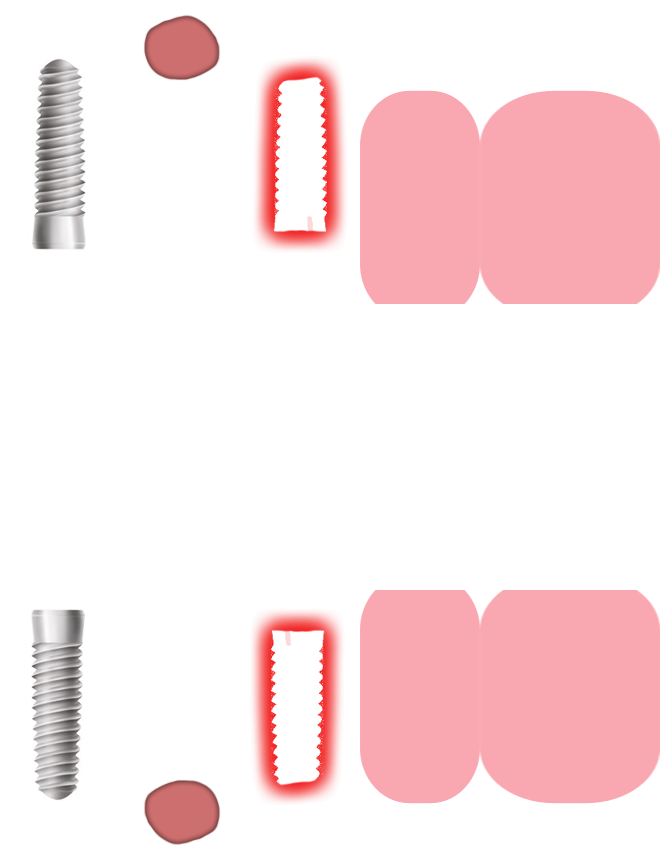
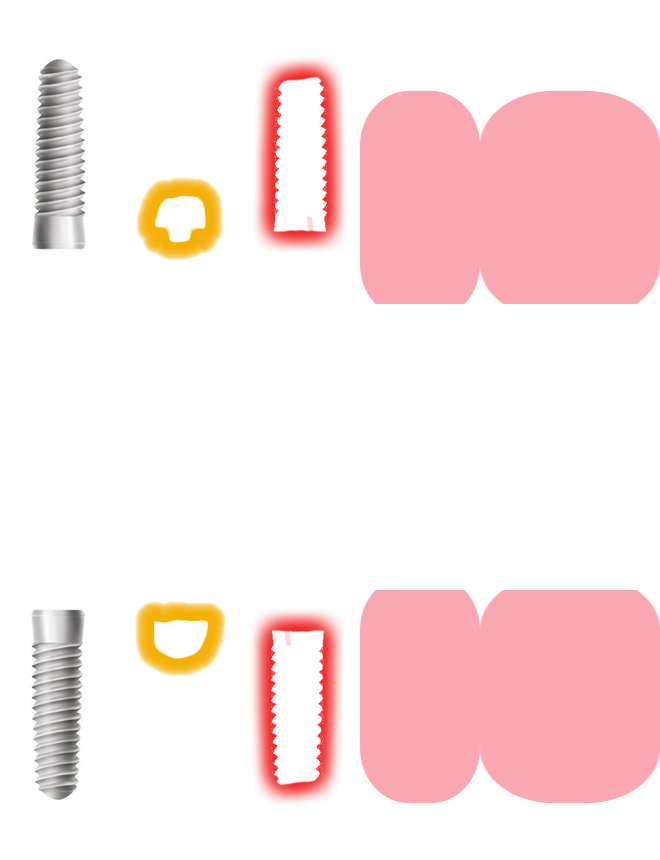
Sprite sheets updated. Resorption now visible.

diff --git a/src/View/Graphics/ToothPainter.cpp b/src/View/Graphics/ToothPainter.cpp
@@ -253,15 +253,7 @@ inline QPixmap getTooth(const ToothPaintHint& tooth) {
 
     if (tooth.lesion)
     {
-        if (tooth.tooth != ToothTextureHint::impl && tooth.tooth != ToothTextureHint::impl_m)
-        {
             painter.drawPixmap(0, 0, *texturePack.lesion);
-
-        }
-        else
-        {
-            painter.drawPixmap(coords.implantPos, *texturePack.lesionImplant);
-        }
     }
 
     //drawing the perio:
@@ -281,7 +273,14 @@ inline QPixmap getTooth(const ToothPaintHint& tooth) {
 
     if (tooth.calculus)
     {
-        painter.drawPixmap(coords.crownRect, *texturePack.calculus);
+        if (tooth.tooth != ToothTextureHint::impl && tooth.tooth != ToothTextureHint::impl_m)
+        {
+            painter.drawPixmap(coords.crownRect, *texturePack.calculus);
+        }
+        else
+        {
+            painter.drawPixmap(coords.implantPos, *texturePack.calculusImplant);
+        }
     }
 
     //drawing the tooth:
@@ -325,21 +324,34 @@ inline QPixmap getTooth(const ToothPaintHint& tooth) {
     }
 
 
+    QPixmap endo(coords.toothRect.width(), coords.toothRect.height()); 
+    endo.fill(Qt::transparent);
+
+    if (tooth.resorption) {
+        endo = *texturePack.resorption;
+    }
+
+    if (tooth.endo != EndoHint::none) {
+        QPainter canalPainter(&endo);
+        canalPainter.drawPixmap(endo.rect(), *texturePack.endo);
+    }
+    
     switch (tooth.endo) //drawing the endo
     {
     case EndoHint::none:
+        painter.drawPixmap(0, 0, textureFormat(endo, Qt::red, 0.3));
         break;
     case EndoHint::red:
-        painter.drawPixmap(0, 0, textureFormat(*texturePack.endo, Qt::red, 0.3));
+        painter.drawPixmap(0, 0, textureFormat(endo, Qt::red, 0.3));
         break;
     case EndoHint::blue:
-        painter.drawPixmap(0, 0, textureFormat(*texturePack.endo, Qt::blue, 0.3));
+        painter.drawPixmap(0, 0, textureFormat(endo, Qt::blue, 0.3));
         break;
     case EndoHint::green:
-        painter.drawPixmap(0, 0, textureFormat(*texturePack.endo, Qt::green, 0.3));
+        painter.drawPixmap(0, 0, textureFormat(endo, Qt::green, 0.3));
         break;
     case EndoHint::darkred:
-        painter.drawPixmap(0, 0, textureFormat(*texturePack.endo, Qt::darkRed, 0.3));
+        painter.drawPixmap(0, 0, textureFormat(endo, Qt::darkRed, 0.3));
         break;
     }
 

diff --git a/src/View/Graphics/SpriteSheets.cpp b/src/View/Graphics/SpriteSheets.cpp
@@ -48,12 +48,10 @@ struct SpriteMaster
 	QPixmap buccal{ ":/tooth/tooth_buccal.png" };
 	QPixmap lingual{ ":/tooth/tooth_lingual.png" };
 	QPixmap cervical{ ":/tooth/tooth_cervical.png" };
-
+	QPixmap resorption{ ":/tooth/tooth_resorption.png" };
 	QPixmap bridgeCon{ ":/tooth/tooth_bridgeCon.png" };
 	QPixmap bridgeSep{ ":/tooth/tooth_bridgeSep.png" };
-
 	QPixmap falseTooth{ ":/tooth/tooth_false.png" };
-
 };
 
 
@@ -77,7 +75,7 @@ void initializePack(TexturePack& tx, const SpriteMaster master, int xPos, int wi
 	tx.bridgeConnected = new QPixmap(master.bridgeCon.copy(crownRect));
 	tx.bridgeSeparated = new QPixmap(master.bridgeSep.copy(crownRect));
 	tx.falseTooth = new QPixmap(master.falseTooth.copy(crownRect));
-
+	tx.resorption = new QPixmap(master.resorption.copy(commonRect));
 	tx.surfaces[Dental::Surface::Occlusal] = new QPixmap(master.occlusal.copy(crownRect));
 	tx.surfaces[Dental::Surface::Medial] = new QPixmap(master.approximal.copy(xPos + width / 2, 0, width / 2, 440));
 	tx.surfaces[Dental::Surface::Distal] = new QPixmap(master.approximal.copy(xPos, 0, width/2, 440));
@@ -97,7 +95,7 @@ void SpriteSheets::initialize()
 
 	QPixmap commonTexture(":/tooth/tooth_common.png");
 	implant = new QPixmap(commonTexture.copy(QRect(0, 0, 120, 860)));
-	lesionImplant = new QPixmap(commonTexture.copy(QRect(120, 0, 120, 860)));
+	calculusImplant = new QPixmap(commonTexture.copy(QRect(120, 0, 120, 860)));
 	perioImplant = new QPixmap(commonTexture.copy(QRect(240, 0, 120, 860)));
 	dentureFront = new QPixmap(commonTexture.copy(QRect(360, 0, 120, 860)));
 	dentureMolar = new QPixmap(commonTexture.copy(QRect(480, 0, 180, 860)));
@@ -112,7 +110,7 @@ void SpriteSheets::initialize()
 
 		initializePack(textures[i], masterSprites, xPos, width);
 		textures[i].implant = implant;
-		textures[i].lesionImplant = lesionImplant;
+		textures[i].calculusImplant = calculusImplant;
 		textures[i].perioImplant = perioImplant;
 		textures[i].denture = isMolar ? dentureMolar : dentureFront;
 
@@ -148,6 +146,6 @@ const SpritesheetCoords& SpriteSheets::getCoordinates(int toothIndex, bool tempo
 SpriteSheets::~SpriteSheets()
 {
 	delete implant;
-	delete lesionImplant;
+	delete calculusImplant;
 	delete perioImplant;
 }

diff --git a/src/Model/Dental/Tooth.cpp b/src/Model/Dental/Tooth.cpp
@@ -265,7 +265,7 @@ Tooth::IncompatibleCodes Tooth::incompatInit()
 	result[RootCanal] = { Healthy, Pulpitis, Necrosis, Missing, Impacted, Implant, Denture };
 	result[Post] = { Healthy, Temporary, Missing, Implant, Pulpitis, Necrosis, Impacted, Denture };
 	result[Root] = { Healthy, Caries, NonCariesLesion,  Restoration, DefectiveRestoration, Crown, Missing, Implant, Calculus };
-	result[Implant] = { Healthy, Temporary, Missing, Restoration, DefectiveRestoration, Caries, NonCariesLesion,  Pulpitis, Necrosis, RootCanal, Fracture, Root, Post, Mobility, Impacted };
+	result[Implant] = { Healthy, ApicalLesion, Temporary, Missing, Restoration, DefectiveRestoration, Caries, NonCariesLesion,  Pulpitis, Necrosis, RootCanal, Fracture, Root, Post, Mobility, Impacted };
 	result[Fracture] = { Healthy, Missing, Implant, Impacted };
 	result[Periodontitis] = { Healthy, Missing, Impacted, Denture };
 	result[Mobility] = { Healthy, Missing, Impacted };
@@ -363,6 +363,11 @@ void Tooth::setStatus(Status code, bool present) {
 		setStatus(RootCanal, true); break;
 	case ApicalLesion:
 		if (!m_data[RootCanal]) {
+			setStatus(Necrosis, true);
+		}
+		break;
+	case Resorption:
+		if (!m_data[RootCanal] && !m_data[Pulpitis]) {
 			setStatus(Necrosis, true);
 		}
 		break;

diff --git a/src/Model/Dental/Dental.h b/src/Model/Dental/Dental.h
@@ -46,9 +46,9 @@ namespace Dental
 	constexpr std::string_view statusNames[StatusCount]
 	{
 		"Интактен зъб", "Временен зъб", "Възстановяване", "Кариес", "Дефектно възстановяване", "Некариозна лезия",  "Пулпит", "Некроза", "Резорбция", "Периодонтит",
-		"Ендодонтско лечение", "Радикуларен щифт", "Корен","Фрактура", "Екстракция",
+		"Ендодонтско лечение", "Радикуларен щифт", "Корен / Разрушен зъб","Фрактура", "Екстракция",
 		"Пародонтит", "Подвижност",
-		"Корона", "Мост/Блок корони", "Фибровлакно", "Имплант", "Свръхброен зъб", "Ретениран зъб", "Протеза", "Зъбен камък"
+		"Корона", "Мост / Блок корони", "Шиниране / Адхезивен мост", "Имплант", "Свръхброен зъб", "Ретениран зъб", "Протеза", "Зъбен камък"
 	};
 
 	constexpr std::string_view mobilityNames[MobilityCount]

diff --git a/src/View/Graphics/ToothSprite.h b/src/View/Graphics/ToothSprite.h
@@ -14,12 +14,13 @@ struct TexturePack
 	QPixmap* perio;
 	QPixmap* implant;
 	QPixmap* calculus;
-	QPixmap* lesionImplant;
+	QPixmap* calculusImplant;
 	QPixmap* perioImplant;
 	QPixmap* bridgeConnected;
 	QPixmap* bridgeSeparated;
 	QPixmap* falseTooth;
 	QPixmap* denture;
+	QPixmap* resorption;
 	std::array<QPixmap*, 6> surfaces;
 
 	inline static QPoint crownPaint{ 0, 210 };
@@ -39,7 +40,8 @@ struct TexturePack
 		delete bridgeConnected;
 		delete bridgeSeparated;
 		delete falseTooth;
-		
+		delete resorption;
+
 		for (int i = 0; i < 6; i++)
 		{
 		 delete surfaces[i];

diff --git a/src/View/Graphics/PaintHint.cpp b/src/View/Graphics/PaintHint.cpp
@@ -39,6 +39,7 @@ ToothPaintHint::ToothPaintHint(const Tooth& tooth, const std::string& notes)
         return;
     }
 
+    resorption = tooth[Resorption];
     calculus = tooth[Calculus];
     frac = tooth[Fracture];
     perio = tooth[Periodontitis];

diff --git a/src/View/Graphics/PaintHint.h b/src/View/Graphics/PaintHint.h
@@ -38,6 +38,7 @@ struct ToothPaintHint
 	ProsthoHint prostho{ 0 };
 	BridgeTerminal bridgePos{ 0 };
 
+	bool resorption{ false };
 	bool calculus{ false };
 	bool lesion{ false };
 	bool perio{ false };

diff --git a/src/View/Graphics/SpriteSheets.h b/src/View/Graphics/SpriteSheets.h
@@ -23,7 +23,7 @@ class SpriteSheets
 
 
 	QPixmap* implant;
-	QPixmap* lesionImplant;
+	QPixmap* calculusImplant;
 	QPixmap* perioImplant;
 	QPixmap* dentureFront;
 	QPixmap* dentureMolar;
